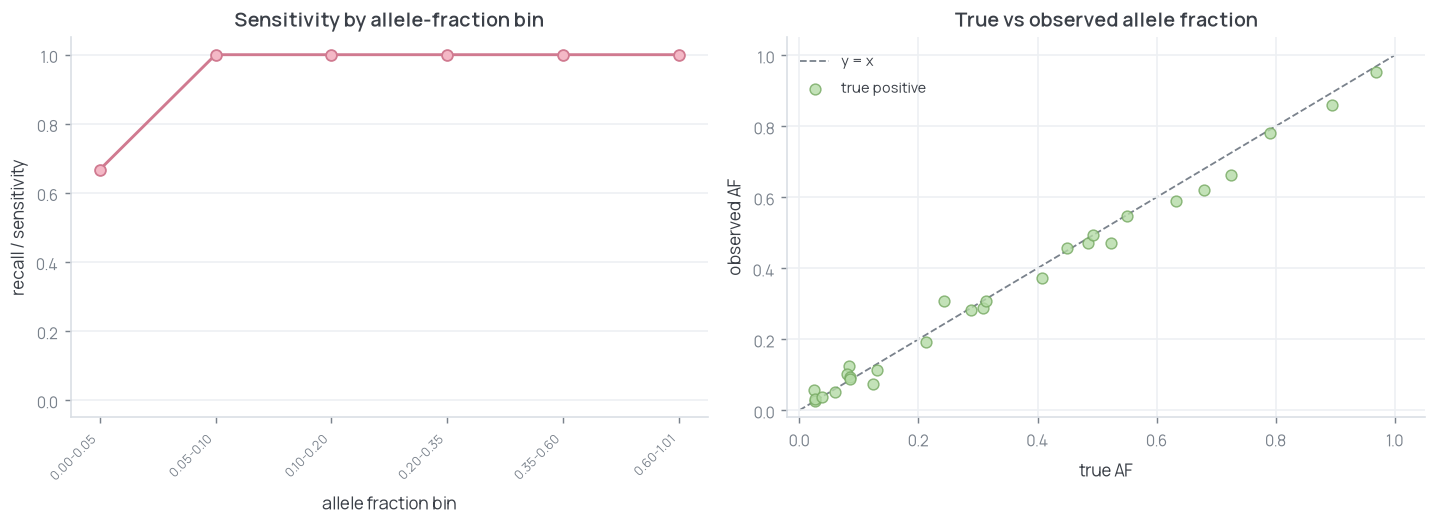
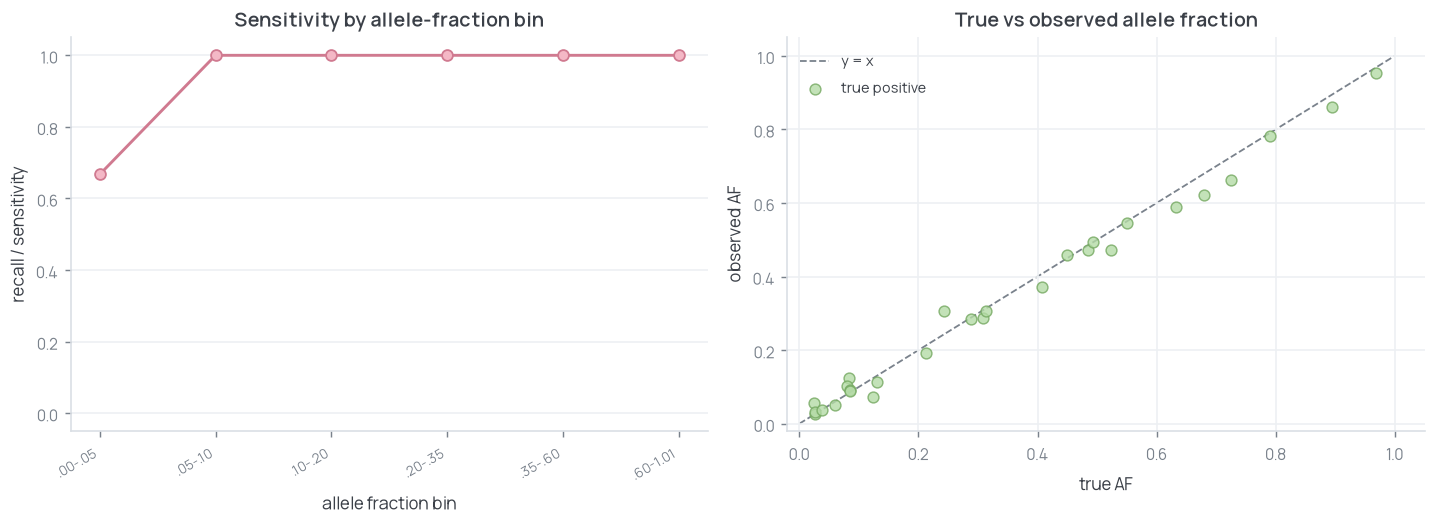
shorten AF bin labels in variant-calling sensitivity curve

diff --git a/variant-calling/plots.py b/variant-calling/plots.py
@@ -29,7 +29,8 @@ def main():
     ax[0].set(title="Sensitivity by allele-fraction bin",
               xlabel="allele fraction bin", ylabel="recall / sensitivity",
               ylim=(-0.05, 1.05), xticks=list(x))
-    ax[0].set_xticklabels(bins.af_bin, rotation=45, ha="right", fontsize=7)
+    short = bins.af_bin.str.replace("0.", ".", regex=False)
+    ax[0].set_xticklabels(short, rotation=30, ha="right", fontsize=7.5)
     ax[0].grid(axis="x", visible=False)
 
     # --- right: true AF vs observed AF scatter ---